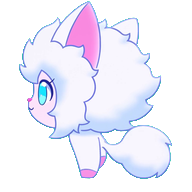
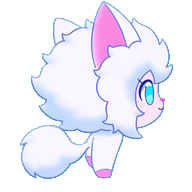
pet: all walk cycles face LEFT by default (project policy)
Project decision: every new walk cycle faces left. The going
phase keeps the saved image as-is; the return trip mirrors it
to face right.

Implementation:
- sprite_loader: rename WALK_FACES_RIGHT to WALK_FACES_GOING
  (saves ask 'is the saved image already in going direction').
  Default is True, meaning new styles just work without
  configuration.
- gen_pet_sprites.sh: after the per-frame chroma key, mirror
  every walk_N_alpha.png with PIL.ImageOps.mirror. mmx decides
  the cat's facing direction when it renders the video, so
  the post-process flip normalises everything.
- window.py: update to use walk_faces_going. Logic: a flip is
  needed only when (returning phase) != (saved-faces-going).
  Cached per (asset, flipped) so the mirror happens at most once
  per frame.
- luna: existing frames were mirrored once at gen time (facing
  right). Mirror again so they face left, matching the policy
  going forward.
- peter2: already faces left from the previous 'force left' pass.
  No change to the PNGs; WALK_FACES_GOING still True.

diff --git a/ccmon/ui/pet/sprite_loader.py b/ccmon/ui/pet/sprite_loader.py
@@ -41,33 +41,33 @@ MOOD_WALKING = "walking"
 WALK_FRAMES_PREFIX = "walk_"
 WALK_FPS = 12  # 4 frames at 12 fps = 3 fps perceived, comfortable for a cat
 
-# Per-style "which way does the walk face as drawn on disk". mmx video
-# decides the cat's facing direction when it renders the walk, so styles
-# generated from different prompts may end up facing different ways.
-# PetWindow uses this to decide whether to flip the image at render time
-# (going right needs to face the direction of travel, returning left
-# needs to face the other way).
+# Default: all styles face LEFT. gen_pet_sprites.sh mirrors the walk
+# frames after generation so the saved image already faces the desired
+# "going" direction. window.py reads `walk_faces_going` to decide
+# whether to apply an extra flip at render time:
+#   - going phase: need facing-direction = LEFT (default). If saved
+#     image faces left, no flip; if right, mirror.
+#   - returning phase: facing-direction = RIGHT. Mirror relative to
+#     the going direction.
 #
-# True  = the saved walk_N_alpha.png is already facing RIGHT (the going
-#        direction). Don't flip on the way out; do flip on the way back.
-# False = the saved image faces LEFT. Flip on the way out (so it faces
-#        right and matches the travel direction); don't flip on the way
-#        back.
-WALK_FACES_RIGHT: dict[str, bool] = {
+# Per-style overrides are for styles that, for whatever reason, came
+# out facing the other way.
+WALK_FACES_GOING: dict[str, bool] = {
+    # luna's saved walk frames face LEFT (gen script mirrored them
+    # after generation, per the default policy).
     "luna": True,
-    # peter2's saved walk frames face LEFT (we deliberately mirrored
-    # them at generation time to give peter2 a distinct walk direction
-    # from luna). window.py reads this flag and applies a flip only
-    # when the going direction doesn't match the saved direction --
-    # so on the way out peter2 keeps its left-facing pose, on the
-    # way back it flips to face right.
+    # peter2's saved walk frames also face LEFT (gen script mirrored
+    # them). luna and peter2 share the same convention.
     "peter2": True,
 }
 
 
-def walk_faces_right(style: str) -> bool:
-    """True when the saved walk frames for `style` already face right."""
-    return WALK_FACES_RIGHT.get(style, True)
+def walk_faces_going(style: str) -> bool:
+    """True when the saved walk frames for `style` already face the
+    desired going direction (LEFT, by default). PetWindow uses this
+    to skip the extra flip on the way out.
+    """
+    return WALK_FACES_GOING.get(style, True)
 
 
 @dataclass

diff --git a/ccmon/ui/pet/window.py b/ccmon/ui/pet/window.py
@@ -335,14 +335,14 @@ class PetWindow(QWidget):
         chroma key) and cycled at WALK_FPS. Loaded images are cached on
         first use; we don't reload the same frame 30 times a second.
 
-        Each style's walk frames were generated with a particular
-        direction baked in (mmx's choice). PetWindow's `walk_faces_right`
-        tells us what the saved image already shows; we apply one extra
-        flip on the return trip so the cat faces the direction of travel
-        in both directions. The flip is cached per (asset, flipped) so
-        the mirror happens at most once per frame.
+        Default going direction is LEFT (set by the user). The saved
+        walk frame should already face left -- gen_pet_sprites.sh
+        mirrors all walk frames after generation. window.py applies
+        an extra flip on the return trip so the cat faces the opposite
+        direction while walking back. The flip is cached per (asset,
+        flipped) so the mirror happens at most once per frame.
         """
-        from .sprite_loader import list_walk_frames, walk_faces_right, WALK_FPS
+        from .sprite_loader import list_walk_frames, walk_faces_going, WALK_FPS
         frames = list_walk_frames(get_active_style())
         if not frames:
             # No walk cycle for this style -- render the mood art instead
@@ -356,10 +356,11 @@ class PetWindow(QWidget):
             )
         idx = int(time.monotonic() * WALK_FPS) % len(frames)
         asset = frames[idx]
-        # Need a flip when (saved direction != required direction).
-        # Required: going -> right, returning -> left.
-        need_right = self._walk_phase != "returning"
-        need_flip = (need_right != walk_faces_right(get_active_style()))
+        # Going phase wants facing-direction = left. Returning phase
+        # wants right (mirror the saved image). A flip is needed unless
+        # the saved image already faces the going direction.
+        returning = self._walk_phase == "returning"
+        need_flip = returning != walk_faces_going(get_active_style())
         cache_key = (asset, need_flip)
         image = self._walk_frame_cache.get(cache_key)
         if image is None:
